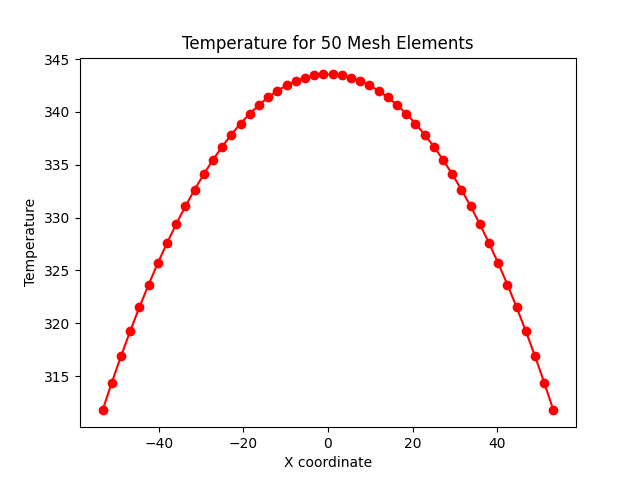
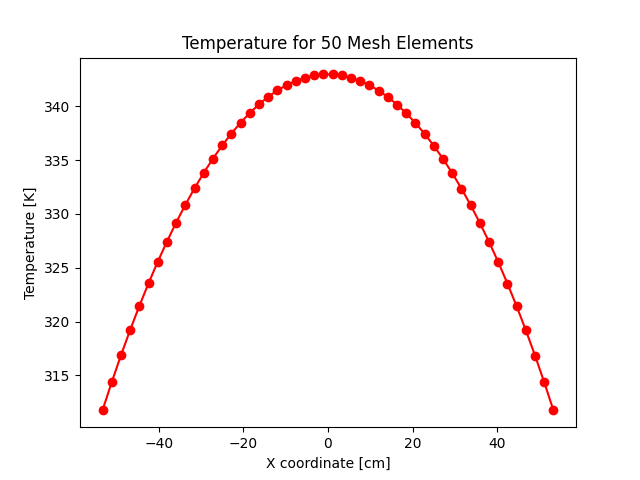
got error norms convergence plot. looks good, slope = -0.9979 for log(vars) comparison. TODO finish converting to use of dictionaries to store relevant data with number of elements as keys. plot flux, flux ratio to analytical, t/phi ratio for each mesh size

diff --git a/threshold_study/visualization/visualize_results.py b/threshold_study/visualization/visualize_results.py
@@ -1,12 +1,12 @@
 import openmc
 import numpy as np
 import matplotlib.pyplot as plt
+from matplotlib.ticker import ScalarFormatter
 import pandas as pd
 
 # list mesh element sizes that will be used to iterate through all cases
 n_elems = [50,100,250,500,1000]
-thresholds = ['1e-2'] # TODO run simulation for each threshold and add the necessary csv files to this directory, then run w all thresholds
-# thresholds = ['1e-2','1e-3','1e-4','1e-5','1e-6']
+log_N = np.log(n_elems)
 L = 106.47 # equilibrium length from paper
 P = 1.0e22 # eV/s
 phi0 = 2.5e14 # n/cm^2-s
@@ -14,34 +14,28 @@ q = 1e8 # ev/s
 lam = 0.5*(1+np.sqrt(1+(16*q*q*phi0*phi0)/(P*P)))
 
 # dictionary of errors for each triger threshold
-error_data = {}
+error_data = []
 # collect error norm data organized by threshold
-for t in thresholds:
-    error_data[t] = {}
-    for n in n_elems:
-        filename = f"openmc_{n}_{t}_out.csv"
-        df_norms = pd.read_csv(filename)
-        last_val  = df_norms.iloc[len(df_norms)-1,-1]
-        error_data[t][n] =  np.log(last_val)
+for n in n_elems:
+    filename = f"openmc_{n}_1e-2_out.csv"
+    df_norms = pd.read_csv(filename)
+    last_val  = df_norms.iloc[len(df_norms)-1,-1]
+    error_data.append(np.log(last_val))
 
-log_N = np.log(n_elems)
-error_df = pd.DataFrame.from_dict(error_data)
 # plot the error for each threshold against the number of mesh elements
-for t in thresholds:
-    plt.plot(log_N,error_df.loc[:,t],'-o',label=t)
-plt.yticks(np.log(np.linspace(0.0010,0.0017,6))) # TODO may need to adjust once they're all together
-plt.yticks(np.linspace(-6.35,-6.85,6))
+plt.plot(log_N,error_data,'-ro',label=r'$\epsilon=\frac{||T_{a} - T_{x} ||_{2}}{|| T_{a} ||_{2}}$')
+plt.yticks(np.linspace(-6.5,-10,6))
 # plt.ticklabel_format(axis='y', style='sci', scilimits=(0,0))
-plt.xlabel('Log of number of X elements $\log(N)$')
+plt.xlabel('Log of number of X elements $\log(N)$') 
 plt.ylabel('Log of Error Norm $log(\epsilon)$')
-plt.title('Error from Analytical Solution for Varying Mesh Elements',y=1.05)
-plt.legend(bbox_to_anchor=[0.985,0.985])
+plt.title('Error from Analytical Solution for Varying Mesh Elements \n Steady State Tolerance 1e-5',y=1)
+plt.legend(bbox_to_anchor=[0.985,0.985],fontsize=14)
 plt.grid()
 plt.savefig('error_study.png')
 plt.clf()
 
 # lists to contain data for each mesh size
-sp_files = []
+sp_files = {}
 raw_flux_mesh_tallies = [] # units from openmc
 flux_mesh_tallies = [] # proper flux units n/cm^2-s
 tallied_global_system_powers = []
@@ -82,61 +76,84 @@ for flux,power,ss in zip(raw_flux_mesh_tallies,raw_kappa_fission_mesh_tallies,so
     kappa_fission_mesh_tallies.append(power * ss)
 
 # PLOTTING T/phi for the 50 and 10000 case
-ratio_50 = []
+# dictionaries to house data for plotting
+temps = {} # key is number of elements, value is data frame read in from csv
+ratios = {} # key is number of elements, value is numpary array of ratio of temp to flux for each element
+xx = {} # key is number of elements, value is numpy array of mesh center points
 # generate x coords
-xx_50 = np.linspace(-L/2,L/2,n_elems[0])
-# populate data frames
-df_temp_50 = pd.read_csv("openmc_50_out_temp_0004.csv")
-temp_50 = df_temp_50.loc[:,"temp"]
-plt.plot(xx_50,temp_50,'-ro')
-plt.xlabel("X coordinate")
-plt.ylabel("Temperature")
-plt.title("Temperature for 50 Mesh Elements")
-plt.savefig('temp_50.png')
-plt.clf()
+for n in n_elems:
+    xx[n] = np.linspace(-L/2,L/2,n)
+    temps[n] = pd.read_csv(f"openmc_{n}_temp.csv")
+# populate dictionaries
+
+for n in n_elems:
+    plt.plot(xx[n],temps[n].loc[:,"temp"],'-ro')
+    plt.xlabel("X coordinate [cm]")
+    plt.ylabel("Temperature [K]")
+    plt.title(f"Temperature for {n} Mesh Elements")
+    plt.savefig(f'temp_{n}.png')
+    plt.clf()
 
 # populate ratio vars
-for i in range (len(temp_50)):
-    ratio_50.append(float(temp_50[i]/flux_mesh_tallies[0].mean[i]))
-plt.plot(xx_50,ratio_50,'-bo',label="50 x-elem")
-plt.xlabel('X coordniate')
-plt.ylabel('$T(x)/\phi(x)$')
-plt.title('temp to flux ratio for each element')
-plt.legend()
-plt.savefig('ratio_T_to_flux.png')
-plt.clf()
+# for i in range (len(temp_50)):
+#     ratio_50.append(float(temp_50[i]/flux_mesh_tallies[0].mean[i]))
+# plt.plot(xx_50,ratio_50,'-bo',label="50 x-elem")
+# plt.xlabel('X coordniate')
+# plt.ylabel('$T(x)/\phi(x)$')
+# plt.title('temp to flux ratio for each element')
+# plt.legend()
+# plt.savefig('ratio_T_to_flux.png')
+# plt.clf()
 
-num_to_analy = []
-# flux numerical to analytical ratio
-phi = phi0*np.sqrt(1- ((lam - 1)*P*P*np.multiply(xx_50,xx_50))/(L*L*q*q*phi0*phi0))
-for i in range(50):
-    num_to_analy.append(float(flux_mesh_tallies[0].mean[i] / phi[i]))
-plt.plot(xx_50,num_to_analy,'-go',)
-plt.xlabel('X coordniate')
-plt.ylabel('numerical $\phi(x)$ to analytical $\phi(x)$ ratio')
-plt.title('Ratio numerical to analytical flux')
-plt.savefig('num_to_analytical_flux.png')
-plt.clf()
+# num_to_analy = []
+# # flux numerical to analytical ratio
+# phi = phi0*np.sqrt(1- ((lam - 1)*P*P*np.multiply(xx_50,xx_50))/(L*L*q*q*phi0*phi0))
+# for i in range(50):
+#     num_to_analy.append(float(flux_mesh_tallies[0].mean[i] / phi[i]))
+# plt.plot(xx_50,num_to_analy,'-go',)
+# plt.xlabel('X coordniate')
+# plt.ylabel('numerical $\phi(x)$ to analytical $\phi(x)$ ratio')
+# plt.title('Ratio numerical to analytical flux')
+# plt.savefig('num_to_analytical_flux.png')
+# plt.clf()
 
 
-plt.plot(xx_50,flux_mesh_tallies[0].mean.flat,'-ko')
-plt.title("numericall flux vs position")
-plt.xlabel('X coordniate')
-plt.ylabel('Numerical $\phi(x)$')
-plt.savefig("numerical_flux.png")
-plt.clf()
+# plt.plot(xx_50,flux_mesh_tallies[0].mean.flat,'-ko')
+# plt.title("numericall flux vs position")
+# plt.xlabel('X coordniate')
+# plt.ylabel('Numerical $\phi(x)$')
+# plt.savefig("numerical_flux.png")
+# plt.clf()
 
-kappa_fission_means = []
-kappa_fission_std_dev = []
-# flux error ratio
-for i in range(50):
-    kappa_fission_means.append(float(kappa_fission_mesh_tallies[0].mean[i]))
-    kappa_fission_std_dev.append(float(kappa_fission_mesh_tallies[0].std_dev[i]))
-plt.plot(xx_50,kappa_fission_means,'-ko')
-plt.errorbar(xx_50,kappa_fission_means,yerr=kappa_fission_std_dev,marker = '|',fmt='none',elinewidth=1,capsize=3,capthick=1)
-plt.xlabel('X coordniate')
-plt.ylabel('heat source [ev/cm^3-s]')
-plt.title('Tallied Kappa Fission (Units Converted Using SS)')
-plt.savefig('heat_source.png')
-plt.clf()
-print(kappa_fission_std_dev)
+# kappa_fission_means = []
+# kappa_fission_std_dev = []
+# # flux error ratio
+# for i in range(50):
+#     kappa_fission_means.append(float(kappa_fission_mesh_tallies[0].mean[i]))
+#     kappa_fission_std_dev.append(float(kappa_fission_mesh_tallies[0].std_dev[i]))
+# plt.plot(xx_50,kappa_fission_means,'-ko')
+# plt.errorbar(xx_50,kappa_fission_means,yerr=kappa_fission_std_dev,marker = '|',fmt='none',elinewidth=1,capsize=3,capthick=1)
+# plt.xlabel('X coordniate')
+# plt.ylabel('heat source [ev/cm^3-s]')
+# plt.title('Tallied Kappa Fission (Units Converted Using SS)')
+# plt.savefig('heat_source.png')
+# plt.clf()
+
+
+# iterations to steady state plot
+m = [50,100,250,500,1000]
+its = [31,46,72,101,143]
+
+fig, ax = plt.subplots()
+plt.plot(m,its,'-bo')
+ax.loglog()
+ax.set_xticks(m)
+ax.set_yticks([25,50,75,100,125,150])
+ax.xaxis.set_major_formatter(ScalarFormatter())
+ax.yaxis.set_major_formatter(ScalarFormatter())
+ax.minorticks_off()
+ax.grid(which='major')
+plt.xlabel("Mesh Elements")
+plt.ylabel("Iterations to Steady State")
+plt.title("Comparing the Iterations Required for MOOSE \n to Detect Steady State (Tolerance = 1e-5)")
+plt.savefig("its_to_ss.png")
